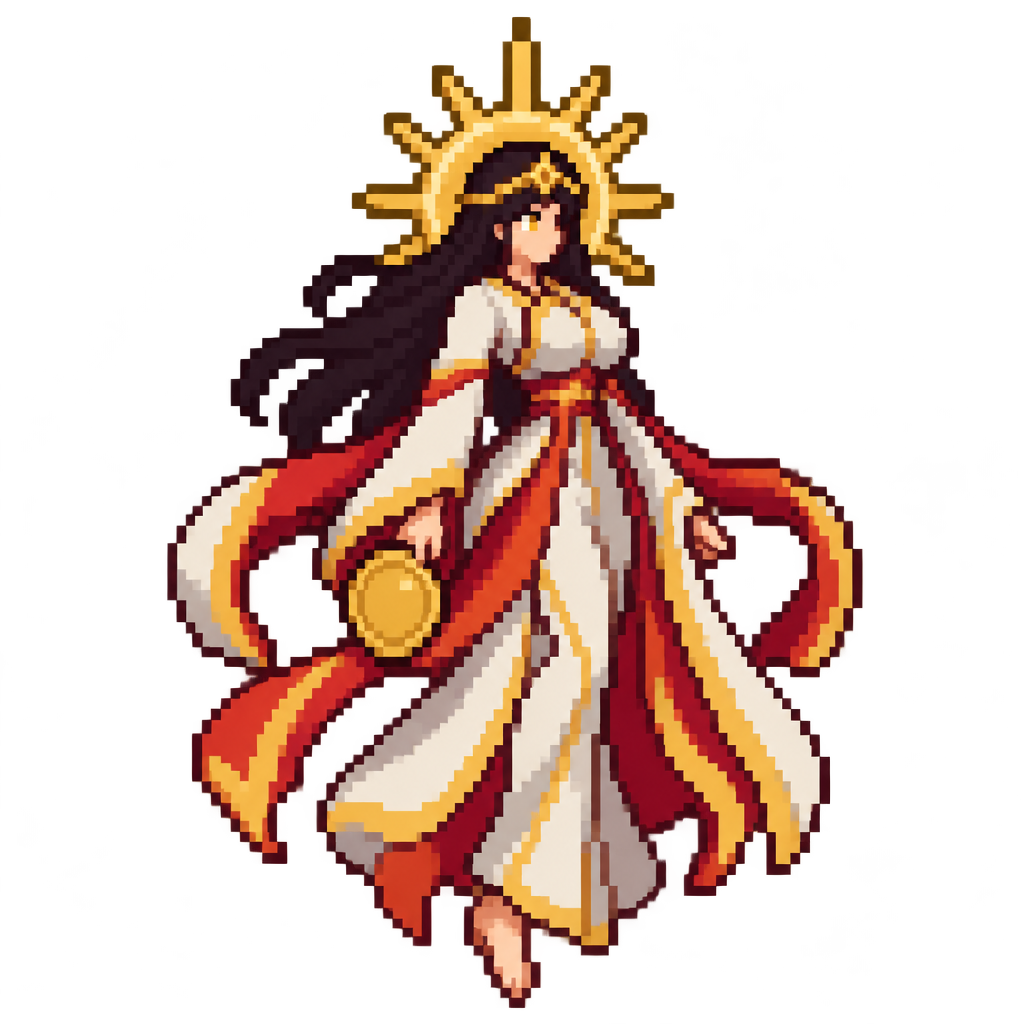
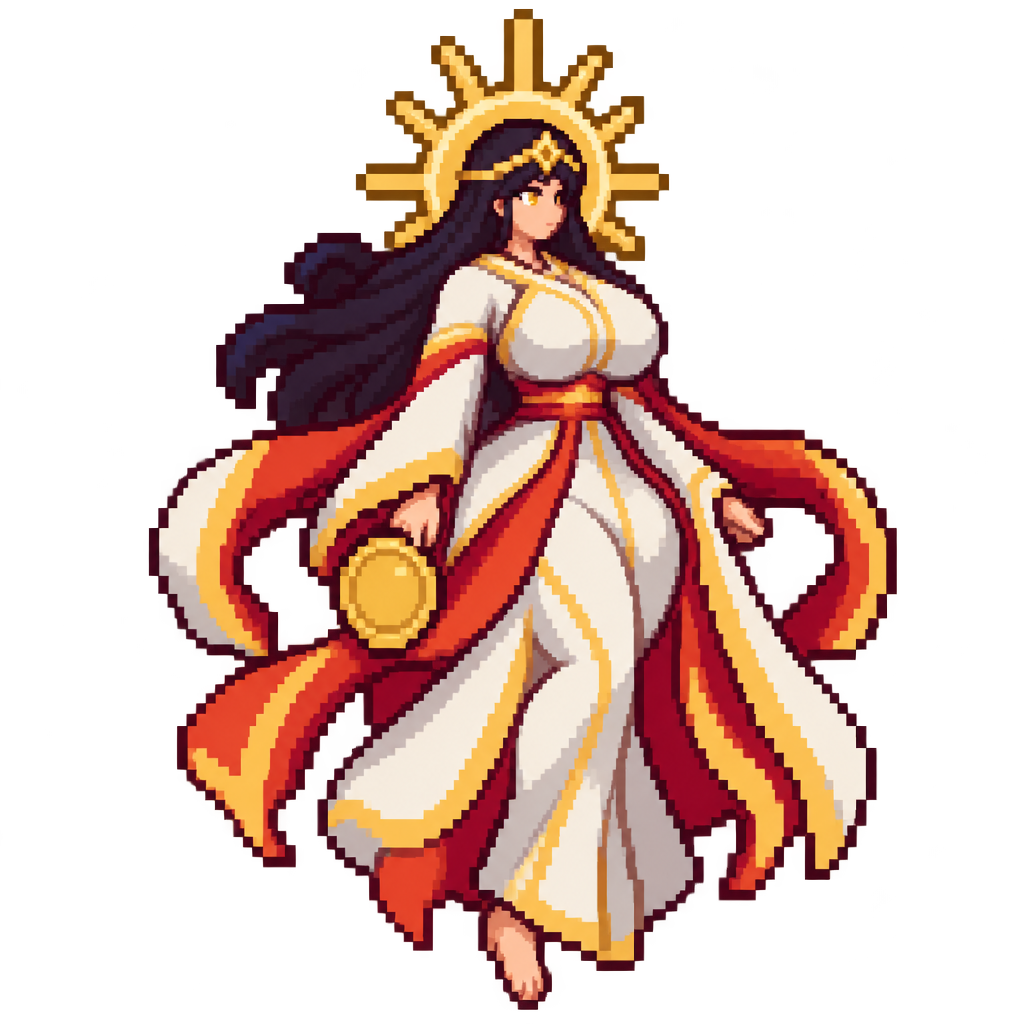
Act V art review round 1 redo (Group B, the Road to the Sun): Amaterasu fuller with her mirror pose, walk and idle, the act5_4 panel, the Shrine Maiden boxes and Deathlord skin, a bustier Kitsune
Claude-Session: https://claude.ai/code/session_01TjA5CNwUWb95gMazj5Z3qp

diff --git a/tools/walk_cycle.py b/tools/walk_cycle.py
@@ -526,9 +526,13 @@ RIGS = {
     # the Oni Lord stomp, the tip of the kanabo (held low across the front) rigid.
     "shogunate/sohei": dict(mode="legs", hip=41, back=(0, 32), front=(32, 64), rigid=[], spread=2, lift=2, dip=1),
     "shogunate/kirin": dict(mode="legs", hip=64, back=(0, 63), front=(63, 104), rigid=[], spread=2, lift=2, dip=1),
-    "shogunate/kitsune": dict(mode="robe", hip=34, rigid=[], sway=2, dip=1, bust=(13, 23, 15, 22, 1)),
-    "bosses/amaterasu": dict(mode="robe", hip=78, rigid=[], sway=1, dip=1, bust=(36, 52, 34, 45, 1)),
-    "player/shrine_maiden": dict(mode="robe", hip=36, rigid=[], sway=2, dip=1, bust=(17, 27, 17, 25, 1)),
+    # Round 1 redo (owner: "make her bustier"): redrawn with a larger bust, rows 15-19 above the sash, cols 13-23 (two lobes).
+    "shogunate/kitsune": dict(mode="robe", hip=34, rigid=[], sway=2, dip=1, bust=(13, 24, 15, 20, 1, 2)),
+    # Round 1 redo (owner: "bounce box needs to go up and to the right"): she was redrawn fuller (more mature figure), her
+    # chest now rows 32-42, cols 43-59 (two lobes, a gold collar between); the old box (cols 36-52, rows 34-45) sat low and left.
+    "bosses/amaterasu": dict(mode="robe", hip=78, rigid=[], sway=1, dip=1, bust=(43, 60, 32, 43, 2, 2)),
+    # Round 1 redo (owner: "extend two pixels to the right and go up two pixels"): the box was cols 17-27, rows 17-25, now cols 17-29, rows 15-23.
+    "player/shrine_maiden": dict(mode="robe", hip=36, rigid=[], sway=2, dip=1, bust=(17, 29, 15, 23, 1)),
     "summons/bound_oni": dict(mode="legs", hip=46, back=(0, 18), front=(18, 37), rigid=[(37, 46, 0, None)], spread=2, lift=2, dip=1),
     "summons/oni_lord": dict(mode="legs", hip=59, back=(0, 32), front=(32, 54), rigid=[(54, 66, 0, None)], spread=2, lift=2, dip=1),
     # --- Act V: Castle Kurogane ---
@@ -631,8 +635,12 @@ SKINS = {
 # Per-skin field overrides of the derived rig (same keys as RIGS), set after review.
 SKIN_FIX = {
     # --- Act V: the Road to the Sun --- (the Shrine Maiden's skins: their own bust boxes)
-    "player/shrine_maiden_hyper": {"bust": (18, 28, 17, 25, 1)},
-    "player/shrine_maiden_deathlord": {"bust": (13, 23, 17, 25, 1)},
+    # Round 1 redo: the Hyper box up 5 px and 2 px wider to the right (was cols 18-28, rows 17-25; owner); the Untouchable skin
+    # (a new entry) takes the same box, up 5 / right 2, which lands on its bust (rows 14-19) and stops above the teal bow;
+    # the Deathlord skin was redrawn with fewer, bigger shapes, its bust sits under the chin (rows 18-22) right of the face.
+    "player/shrine_maiden_hyper": {"bust": (18, 30, 12, 20, 1)},
+    "player/shrine_maiden_untouchable": {"bust": (17, 29, 12, 20, 1)},
+    "player/shrine_maiden_deathlord": {"bust": (15, 26, 18, 23, 1)},
     # --- Act IV: the Asphodel Underworld --- (the Ferrywoman's skins: their own oar column and bust box)
     "player/ferrywoman_hyper": {"rigid": [(28, 35, 0, None)], "bust": (17, 26, 17, 24, 2)},
     "player/ferrywoman_untouchable": {"rigid": [(28, 34, 0, None)], "bust": (17, 27, 17, 24, 2)},

diff --git a/art_source/sun_road/make_art.py b/art_source/sun_road/make_art.py
@@ -30,8 +30,8 @@ UNITS = {
 
     "shogunate/sohei": ("art_source/shogunate/sohei.png", ["--ramps", "indigo,lacquer,marble,grey,gold,skin,brown", "--ink-l", "0.22"]),
     "shogunate/kirin": ("art_source/shogunate/kirin.png", ["--ramps", "gold,marble,bone,brown,sakura", "--ink-l", "0.22"]),
-    "bosses/amaterasu": ("art_source/bosses/amaterasu.png", ["--ramps", "marble,gold,lacquer,indigo,skin", "--ink-l", "0.22"]),
-    "bosses/amaterasu_mirror": ("art_source/bosses/amaterasu_mirror.png", ["--ramps", "marble,gold,lacquer,indigo,skin", "--ink-l", "0.22"]),
+    "bosses/amaterasu": ("art_source/bosses/amaterasu.png", ["--ramps", "marble,gold,lacquer,indigo,skin", "--ink-l", "0.22", "--no-levels"]),  # Round 1 redo: --no-levels keeps her black hair dark.
+    "bosses/amaterasu_mirror": ("art_source/bosses/amaterasu_mirror.png", ["--ramps", "marble,gold,lacquer,indigo,skin", "--ink-l", "0.22", "--no-levels"]),
     "summons/bound_oni": ("art_source/summons/bound_oni.png", ["--ramps", "grey,crimson,bone,gold,soul,brown", "--ink-l", "0.22"]),
     "summons/oni_lord": ("art_source/summons/oni_lord.png", ["--ramps", "grey,crimson,bone,gold,soul,brown", "--ink-l", "0.22"]),
 }

diff --git a/tools/epilogue_panel.py b/tools/epilogue_panel.py
@@ -78,6 +78,7 @@ PANEL_OPTS = {
     "act5_1": {"drop": ["skin", "ice"]},  # The army on the Road to the Sun: the default drops.
     "act5_2": {"drop": ["skin", "ice"]},  # The burning rice fields: the default drops.
     "act5_3": {"drop": ["skin", "ice"]},  # The fallen Shogun in Castle Kurogane: the default drops.
+    "act5_4": {"y_bias": 0.15, "drop": ["skin", "ice"]},  # Round 1 redo: the new Amaterasu falls; the band keeps her feet and the dim sun ring in frame.
     "act5_4": {"drop": ["skin", "ice"]},  # Amaterasu falling, the sun going out: the default drops.
     "close_act5": {"drop": ["skin", "ice"]},  # The Pit with its ledger of souls: the default drops.
 }

diff --git a/docs/GDD.md b/docs/GDD.md
@@ -1746,6 +1746,7 @@ Decisions made since the source was written are recorded in 15.0; everything bel
 | — | Castle Kurogane smoke run (Act V phase 2) | The brief's one agent run: `--stage=kurogane --policy=army --seed=7 --mortal`: **VICTORY** (the run reached 0:00 and the Endless Night, 63.8 s past it), zero `SCRIPT ERROR` / `ERROR:` / `WARNING:`, `stuck_units=0`, lowest HP before 0:00 76. The Sun's Course reached every phase (dusk 7:00, night 13:00, the Endless Night 20:00), 8 lanterns lit; the Draw 31 lines (all dodged by the bot), the ambushes 30 squads (111 units, 23 inside the ring). The General of the Left arrived at 11:00 and fell at 12:57 (31 charges, 293 summons struck, 15 riders). The Hatamoto: 56 spawned and killed; the Kiba-musha 331 charges. **The Shogun:** his six regiments marched; the spear wall broke at 17:21, the arquebus line 17:33, the cavalry 18:11, the ambush 18:13, the night host 18:29 (the duel squad's Hatamoto still stood: 5 of 6 banners, so no Regiments Broken); 260 soldiers sent, 119 killed (51 ambush ninja), 180 other kills off the bar, 74 fled, 120 of reserve lost; he came down at 18:29 with 59 points left, cut 7 iai lines and 4 triple cuts, and fell at 18:56 (all his cuts dodged by the bot; 5,236 damage to summons). A second run, `--policy=evolve --seed=7 --character=ronin_revenant --spells=banner_of_the_dead --passives=unbending`: VICTORY, zero errors, `stuck_units=0`; Banner of the Dead Lv 4 planted 152 banners (8,280 damage, 69 kills; haste x1.3 from Unbowed Banner), Warlord's Seal Lv 3, Unbending Lv 5 (Draw cuts on summons x0.45). That spell-only build barely killed (the enemies filled the hard cap): the Shogun's regiments sent 21 soldiers and he never came down, the intended answer to an army too weak to break his (the bar is his army). Hundred Banners was not reached in either run (no chest evolution), so its path is reviewed but untested in play. |
 | — | Act V integration balance (lead's balance agent, Oct 26, 2026) | The merged Act V branch, `--policy=army --mortal`, seeds 3 / 7 / 11. **The Road to the Sun** was too hard for the army bot: before, all three died (seed 3 at 8:18, the ring broken at dusk when the stage's x1.5 damage step met the Sōhei's sweeps; seed 7 at 18:00 and seed 11 at 18:22 in Amaterasu's first minute: mirror ~1,950, zenith ~1,360 and mines ~840 damage to summons in 60 s, the army 38 -> 9; on another draw of seed 11 the Kirin broke the ring at 12:00 and it never recovered). Four data changes, Road-only (the other stages' numbers untouched): the stage's enemy damage **1.5 -> 1.35** (the Olympus precedent; the finale's step up stays in HP x1.65 and in its boss); the **Sōhei's sweep on summons 9 -> 6** (its 125° arc cuts several summons at once: the stage's top summon killer on every seed); **Amaterasu on summons**: mirror 3.5 -> 2 a tick, mines 10 -> 6, zenith 12 -> 8; **Amaterasu on the necromancer**: zenith 12 -> 8 and the noon glare 10 -> 7 (~40 a glare at 17:00 when no shadow is in reach). Her HP stays 14,000 (23,100 on the Road, Kage 17,050, Hades 24,000): with the army standing she falls 88-118 s after her arrival, and on the weak seed 3 she lives to 0:00 with 3,582 left (1,171 at the end), so she usually dies and the finale keeps the act's biggest boss. **After:** seed 3 VICTORY, min HP 61 (Amaterasu alive at 0:00); seed 7 VICTORY, min HP 88, Amaterasu slain at 18:52 (112 s); seed 11 VICTORY, min HP 90, slain at 18:28 (88 s); for information (not tuned for), seed 7 `--policy=summon` VICTORY, min HP 110, she survives with 7,610 at 0:00; `--policy=evolve` VICTORY, min HP 67, slain at 18:59. **Regiments Broken was unreachable for a banner still standing at the duel**: `BossShogun` stepped `ShogunRegiments` only on the platform and in the leap, so a Hatamoto killed in the duel never broke his banner (seed 7: the duel squad's Hatamoto marched at ~18:05, stood ~300-500 px out behind his samurai and died in the duel unseen; seed 11 the same with the night host). Fix: the duel steps the regiments too (stopped: no more marching; deaths, breaks and flight as before), so the regiment timing data stays as it was: with it, seed 7 broke 6 / 6 (the duel squad at 18:47 in the duel, the Shogun slain at 18:53) and seed 11 6 / 6 (the night host at 18:32), both Regiments Broken; a player who walks the army to the last banner has the whole duel (13-24 s here) besides the march. **Co-op regiments:** each regiment's `size` (and so the bar) is x `CoopData.SCALING` enemy_spawn (2) through `DifficultyModifiers.coop_mult()` (exactly 1 in solo: solo bit-identical), read once at his arrival; batch, field and Hatamoto unchanged. `--coop-bot --policy=army --stage=kurogane --seed=7`: VICTORY, bar 1,200, 6 / 6 banners broken, Regiments Broken, the Shogun slain at 19:07, min HP 84 / 66. Every run: zero SCRIPT ERROR / ERROR / WARNING, `stuck_units=0`; `--import` clean. **Open for the owner:** Castle Kurogane on seed 3 dies at 11:56 to the General of the Left (seed 11 lowest HP 32), so after this pass the bots find Kurogane's middle the sharpest Act V spike, not the Road (the Province: seed 3 VICTORY, lowest HP 90); its numbers were left to its own pass. |
 | — | Act V epilogue and the Pit Keeps Count card | The Act V epilogue part (`EpilogueData.ACT5_PART`, "The Sun Goes Out") is now in `PARTS` after Act IV, opened by the achievement The Sun Goes Out, with its four panels (`act5_1` the army marching up the Road to the Sun toward a torii and the low sun, `act5_2` the dead fighting samurai in the burning rice fields with fallen ninja, `act5_3` the Shogun kneeling beaten in Castle Kurogane's courtyard, `act5_4` Amaterasu falling as the sun goes dark over the clouds) and the closing card "The Pit Keeps Count" (`close_act5`: a terraced pit of red rock with tally-marked ledger slabs, hanging chains, teal soul wisps and two huge red embers far below in the dark; it sets up Act VI, the Inferno, with no demon shown; a tiny necromancer figure stands at the rim). Five API images, about $0.10 (ledger), converted with `tools/epilogue_panel.py` (`PANEL_OPTS`, default drops); sources and prompts in `art_source/epilogue/`. Art and data only: Act I-IV runs unchanged. |
+| — | Act V art review, round 1 (Group B: the Road to the Sun) | Owner's marks on the round 1 page, brief `docs/act5/ART_REDO_R1.md`. **Amaterasu** (`bosses/amaterasu`, `_mirror`, `_idle`, `_walk`) redrawn from her old source as the reference: a fuller, more mature "mommy" figure (bigger bust, wider hips and thighs, closed neckline, same crown, mirror, palette and hair; `--no-levels` in the converter keeps the hair dark); her bust box moved up and right, to cols 43-60, rows 32-43, two lobes, px 2 (it was cols 36-52, rows 34-45); the mirror pose redrawn to match. **Epilogue `act5_4`** regenerated with the old panel (composition), the new Amaterasu still and the necromancer as references, converted with `y_bias` 0.15 (`PANEL_OPTS`). **Shrine Maiden:** base box 2 px wider right and 2 px higher (cols 17-29, rows 15-23); Hyper box up 5 and 2 px right (cols 18-30, rows 12-20); Untouchable (its still approved) takes the same up 5 / right 2 box (cols 17-29, rows 12-20), checked on its chest: it sits on the bust and stops above the teal bow, so no fall back to the base's up 2; the Deathlord skin redrawn with few big shapes (one robe, spiked crown, two pauldrons, a crimson sash and hem, two wide streamers, one flame; the busy plates and streaks gone), box cols 15-26, rows 18-23. **Kitsune** redrawn bustier (covered neckline, sleeves and a narrow slit), box cols 13-24, rows 15-20, two lobes. Every strip rebuilt (walk and idle for all of the above). 9 API images, about $0.24 (ledger). `art_check.py`: all pass; the Deathlord's lightness fails on the light Act I March roads and Sanctum floors exactly as the old skin did (same ramps; Act V floors pass). Waits on the owner's review. |
 
 ### 15.1 Core Rules and Run Structure
 

diff --git a/docs/art/ART_BIBLE.md b/docs/art/ART_BIBLE.md
@@ -2472,6 +2472,8 @@ Code-drawn on purpose: Amaterasu's sun disc, beams (a soft strip texture stretch
 zenith columns, the noon glare and the noon shade, the dark sun of her fall; the Black Sun's suns and beams; the
 Kirin's halo; the fox-fire flicker and wisp over an illusion.
 
+**Round 1 redo (Group B, Oct 2026).** Amaterasu is a fuller, more mature figure (bigger bust, wider hips and thighs, closed neckline) redrawn from her old source; prepare her with `--no-levels` or the black hair turns bright indigo. Her bust box is cols 43-60, rows 32-43 (two lobes, px 2). The mirror pose, the walk and the idle follow the new still. `epilogue/act5_4` takes the new still as the figure reference (`y_bias` 0.15). The Shrine Maiden boxes: base cols 17-29 rows 15-23, Hyper cols 18-30 rows 12-20, Untouchable cols 17-29 rows 12-20; the Deathlord skin is redrawn with few big shapes (the round 1 version was "very busy"; the second prompt names the hourglass figure so a bust exists to bounce) and its box is cols 15-26, rows 18-23. The Kitsune is bustier (covered by the kimono, narrow slit), box cols 13-24 rows 15-20. Keep any "bigger" note inside the covering rules: closed neckline, covered shoulders, a slit that shows the leg only from the knee down.
+
 ### Act V: Castle Kurogane (Stage 14; Act V phase 2, Oct 2026)
 
 <!-- --- Act V: Castle Kurogane --- -->
